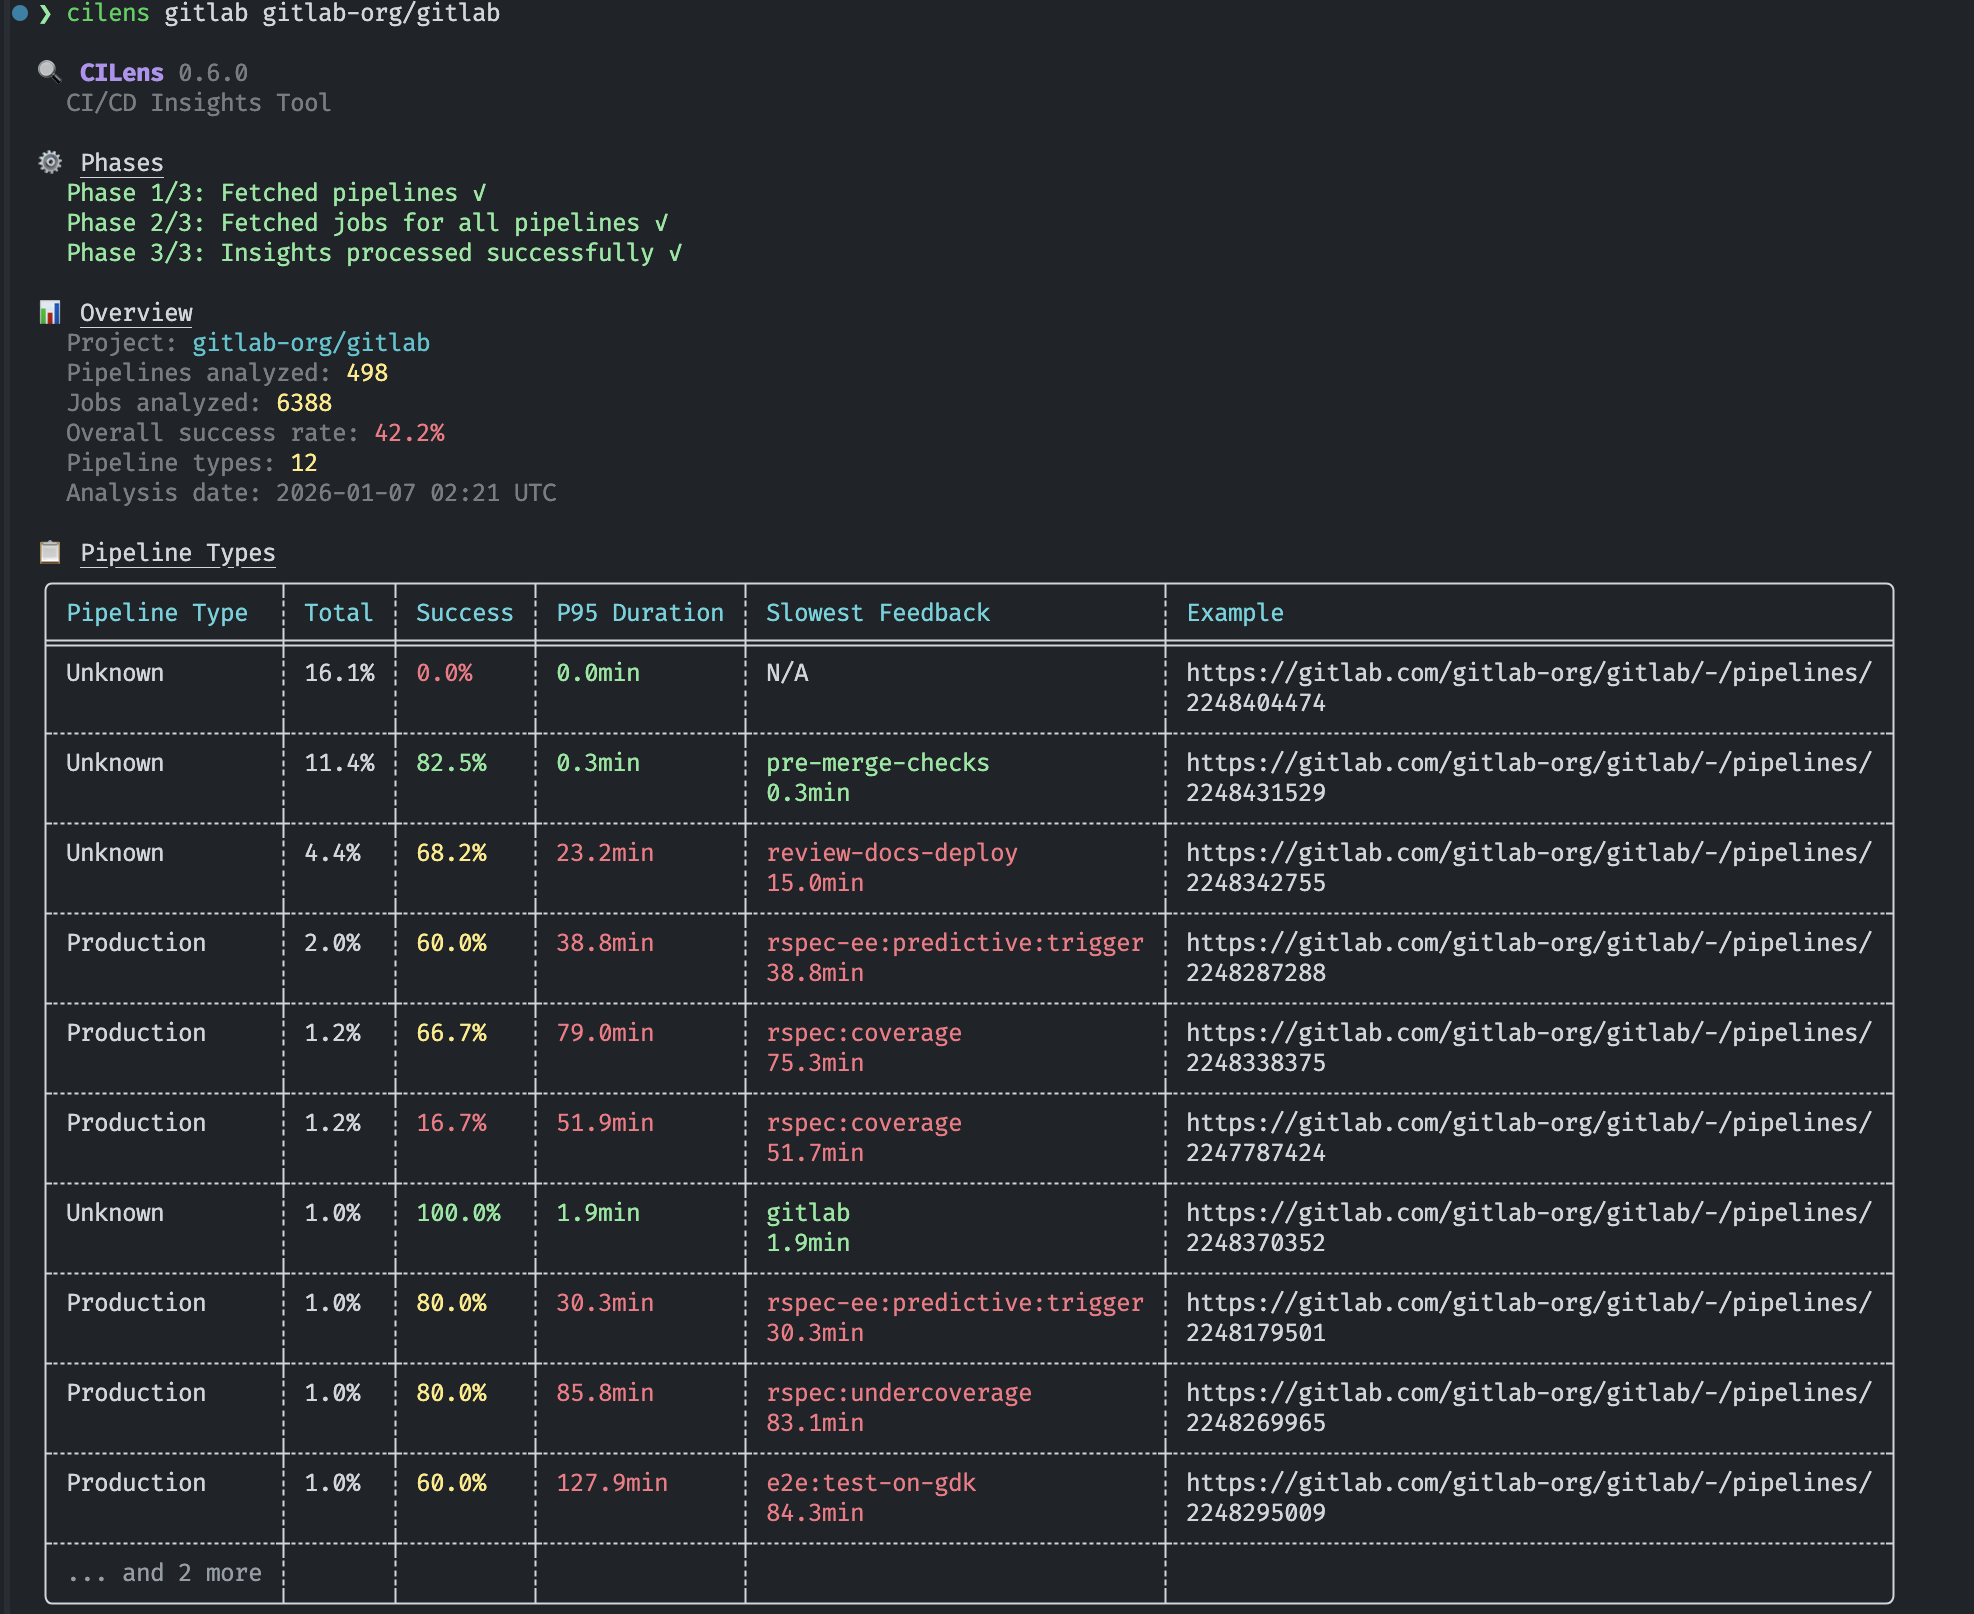
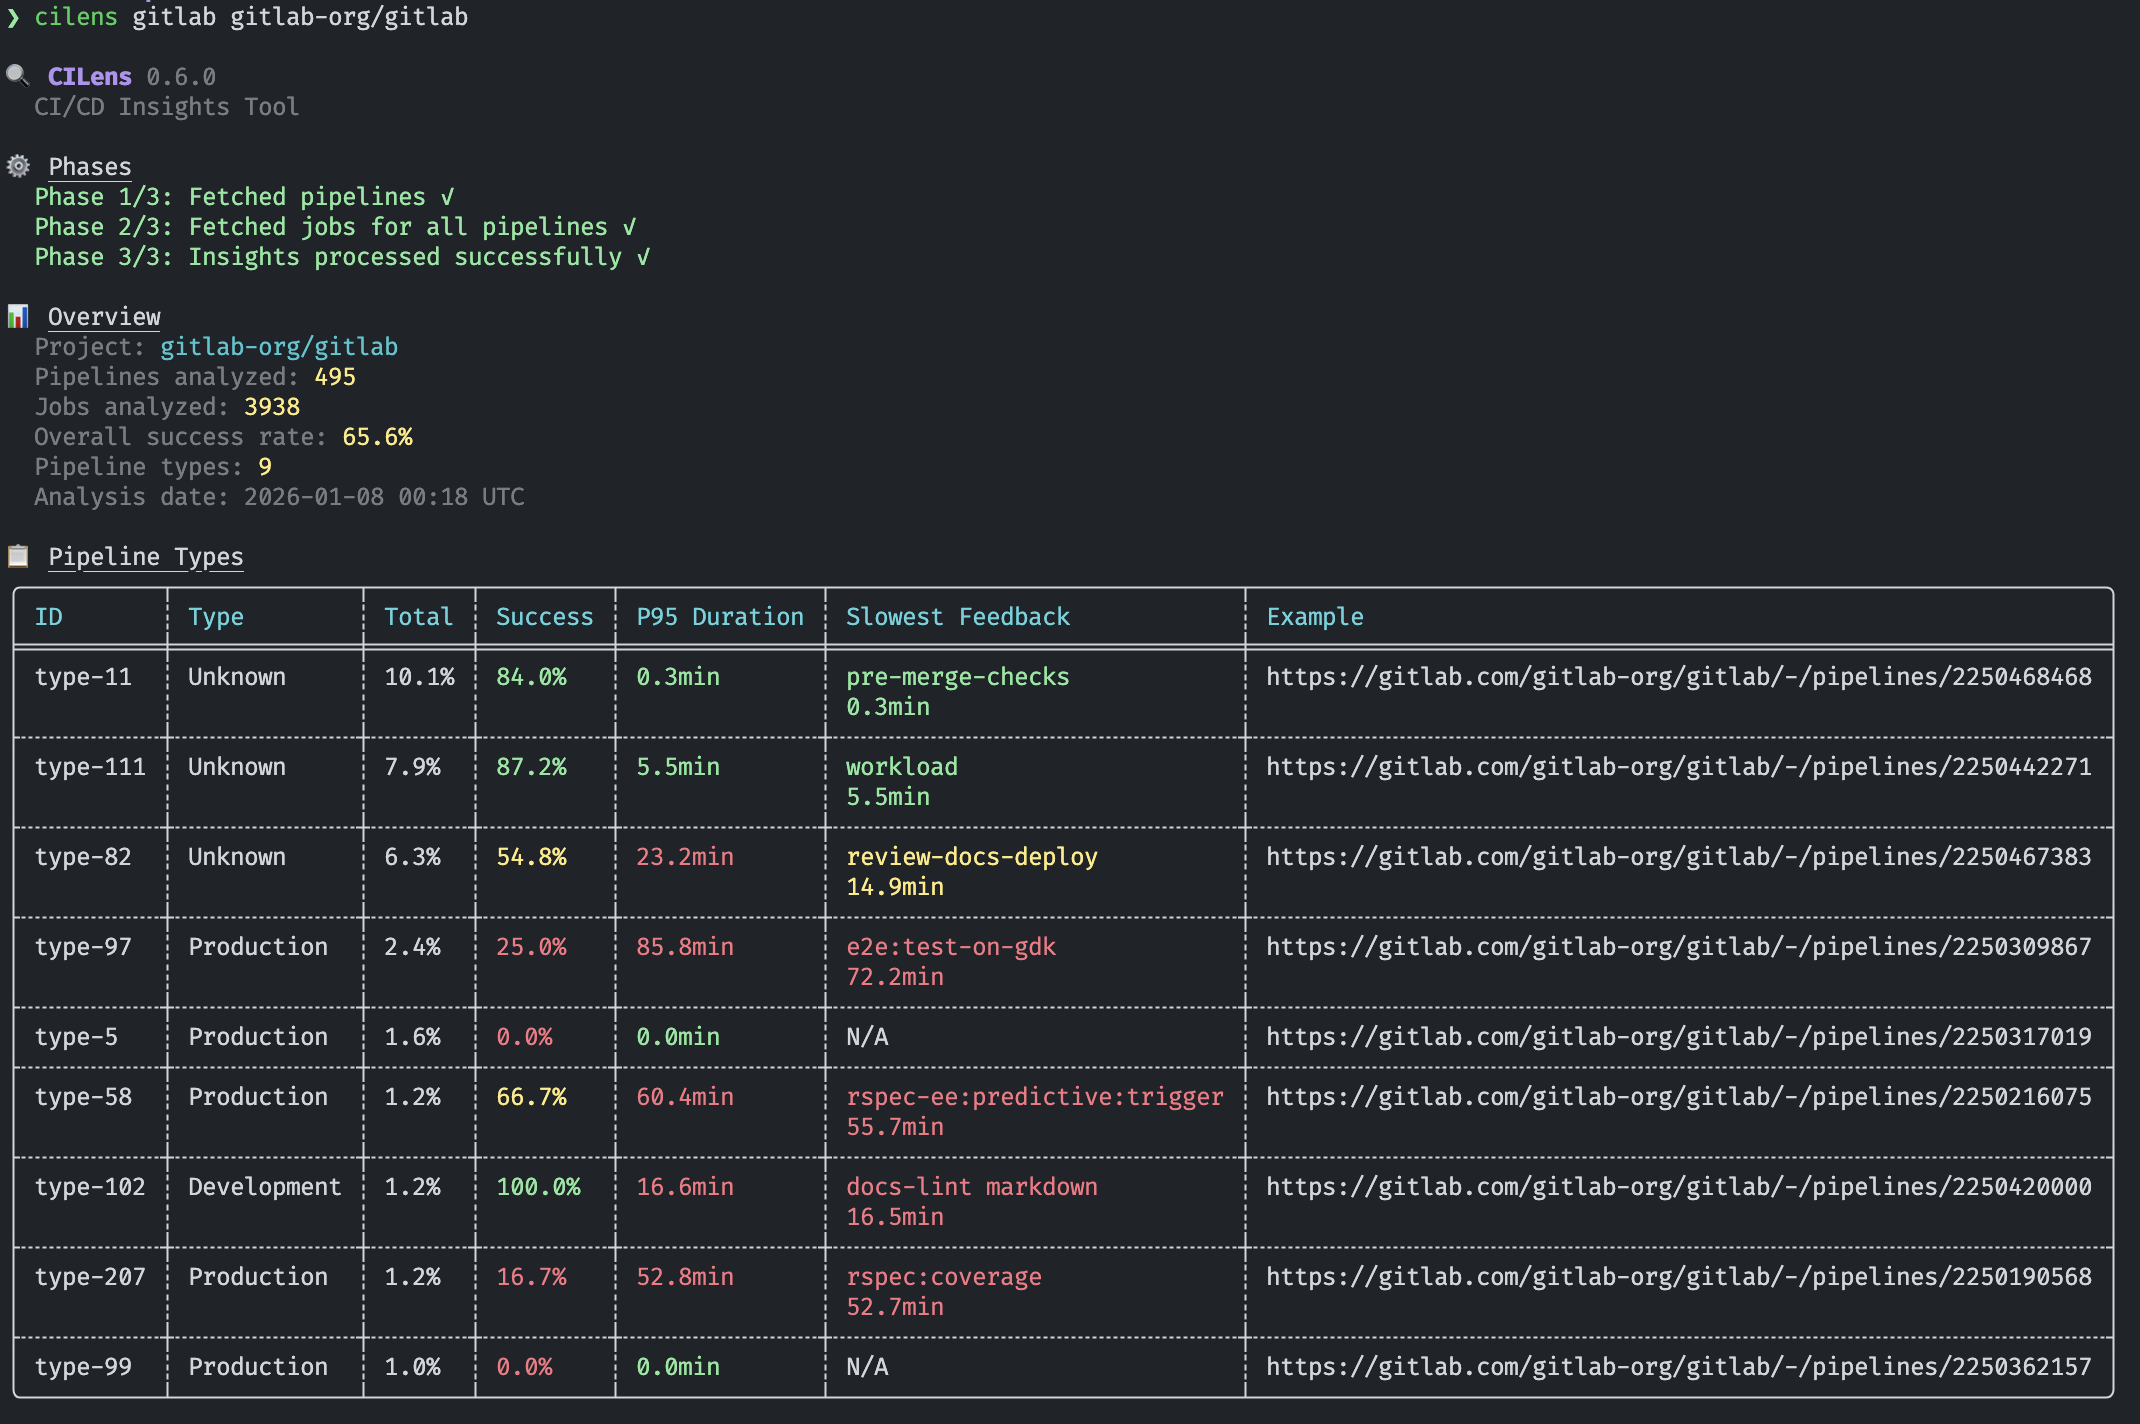
feat(core): add pipeline type IDs for job traceability
Add unique identifiers to pipeline types and associate each job with
its pipeline type ID. This enables tracking which pipeline type a job
belongs to when the same job appears across multiple pipeline types
with different metrics.

Changes:
- Add `id` field to PipelineType (format: "type-{index}")
- Add `pipeline_type_id` field to JobMetrics
- Display pipeline type ID in Pipeline Types summary table
- Display pipeline type ID as last column in all job tables
  (Top 10 Slowest, Top 10 Failing, Top 10 Flaky)

All metrics remain contextual (calculated per-pipeline-type), with
IDs providing traceability for understanding why the same job may
show different metrics in different contexts.

Changed region(s): [[0.0, 0.0, 0.9889, 1.0]]

diff --git a/src/output/summary.rs b/src/output/summary.rs
@@ -134,7 +134,8 @@ fn render_summary(insights: &CIInsights) -> String {
 
     let mut types_table = create_table();
     types_table.set_header(create_cyan_header(&[
-        "Pipeline Type",
+        "ID",
+        "Type",
         "Total",
         "Success",
         "P95 Duration",
@@ -179,6 +180,7 @@ fn render_summary(insights: &CIInsights) -> String {
             .map_or("N/A", |url| url.as_str());
 
         types_table.add_row(vec![
+            Cell::new(&pt.id),
             Cell::new(&pt.label),
             Cell::new(format!("{:.1}%", pt.metrics.percentage)),
             success_cell,
@@ -189,7 +191,7 @@ fn render_summary(insights: &CIInsights) -> String {
     }
 
     if insights.pipeline_types.len() > 10 {
-        let empty_cells = vec![Cell::new(""); 5];
+        let empty_cells = vec![Cell::new(""); 6];
         let mut row = vec![Cell::new(format!(
             "... and {} more",
             insights.pipeline_types.len() - 10
@@ -238,6 +240,7 @@ fn render_summary(insights: &CIInsights) -> String {
         "Fail",
         "Flaky",
         "Critical Path",
+        "Pipeline Type ID",
     ]));
 
     for (idx, job) in sorted_by_time.iter().take(10).enumerate() {
@@ -248,6 +251,7 @@ fn render_summary(insights: &CIInsights) -> String {
             color_coded_failure_cell(job.failure_rate),
             color_coded_flakiness_cell(job.flakiness_rate),
             Cell::new(format_critical_path(job)),
+            Cell::new(&job.pipeline_type_id),
         ]);
     }
 
@@ -268,6 +272,7 @@ fn render_summary(insights: &CIInsights) -> String {
         "Job Name",
         "Fail",
         "P95 Feedback",
+        "Pipeline Type ID",
     ]));
 
     for (idx, job) in sorted_by_failure.iter().take(10).enumerate() {
@@ -276,6 +281,7 @@ fn render_summary(insights: &CIInsights) -> String {
             Cell::new(&job.name),
             color_coded_failure_cell(job.failure_rate),
             color_coded_duration_cell(job.time_to_feedback_p95),
+            Cell::new(&job.pipeline_type_id),
         ]);
     }
 
@@ -296,6 +302,7 @@ fn render_summary(insights: &CIInsights) -> String {
         "Job Name",
         "Flaky",
         "P95 Feedback",
+        "Pipeline Type ID",
     ]));
 
     for (idx, job) in sorted_by_flakiness.iter().take(10).enumerate() {
@@ -304,6 +311,7 @@ fn render_summary(insights: &CIInsights) -> String {
             Cell::new(&job.name),
             color_coded_flakiness_cell(job.flakiness_rate),
             color_coded_duration_cell(job.time_to_feedback_p95),
+            Cell::new(&job.pipeline_type_id),
         ]);
     }
 
@@ -343,6 +351,7 @@ mod tests {
     ) -> JobMetrics {
         JobMetrics {
             name: name.to_string(),
+            pipeline_type_id: "test-type".to_string(),
             duration_p50: time_to_feedback_p95 * 0.3,
             duration_p95: time_to_feedback_p95 * 0.6,
             duration_p99: time_to_feedback_p95 * 0.8,
@@ -367,6 +376,7 @@ mod tests {
         example_url: &str,
     ) -> PipelineType {
         PipelineType {
+            id: "test-type".to_string(),
             label: label.to_string(),
             stages: vec!["test".to_string()],
             ref_patterns: vec!["main".to_string()],

diff --git a/src/providers/gitlab/pipeline_metrics.rs b/src/providers/gitlab/pipeline_metrics.rs
@@ -61,6 +61,7 @@ fn calculate_percentiles(values: &[f64]) -> (f64, f64, f64) {
 /// time-to-feedback percentiles, and detailed per-job metrics with clickable URLs
 /// to failed pipelines and flaky job runs.
 pub fn calculate_type_metrics(
+    pipeline_type_id: &str,
     pipelines: &[&GitLabPipeline],
     percentage: f64,
     base_url: &str,
@@ -79,8 +80,13 @@ pub fn calculate_type_metrics(
     let durations: Vec<f64> = successful.iter().map(|p| p.duration as f64).collect();
     let (duration_p50, duration_p95, duration_p99) = calculate_percentiles(&durations);
 
-    let (jobs, time_to_feedback_percentiles) =
-        aggregate_job_metrics(&successful, pipelines, base_url, project_path);
+    let (jobs, time_to_feedback_percentiles) = aggregate_job_metrics(
+        pipeline_type_id,
+        &successful,
+        pipelines,
+        base_url,
+        project_path,
+    );
 
     TypeMetrics {
         percentage,
@@ -119,6 +125,7 @@ fn calculate_success_rate(successful: usize, total: usize) -> f64 {
 
 #[allow(clippy::cast_precision_loss)]
 fn aggregate_job_metrics(
+    pipeline_type_id: &str,
     successful_pipelines: &[&GitLabPipeline],
     all_pipelines: &[&GitLabPipeline],
     base_url: &str,
@@ -174,7 +181,15 @@ fn aggregate_job_metrics(
 
     let mut jobs: Vec<JobMetrics> = job_data
         .into_iter()
-        .map(|(name, data)| build_job_metrics(&name, &data, &all_percentiles, &reliability_data))
+        .map(|(name, data)| {
+            build_job_metrics(
+                pipeline_type_id,
+                &name,
+                &data,
+                &all_percentiles,
+                &reliability_data,
+            )
+        })
         .collect();
 
     jobs.sort_by(|a, b| cmp_f64(b.time_to_feedback_p95, a.time_to_feedback_p95));
@@ -190,6 +205,7 @@ struct JobData {
 }
 
 fn build_job_metrics(
+    pipeline_type_id: &str,
     name: &str,
     data: &JobData,
     all_percentiles: &HashMap<String, (f64, f64, f64)>,
@@ -227,6 +243,7 @@ fn build_job_metrics(
 
     JobMetrics {
         name: name.to_string(),
+        pipeline_type_id: pipeline_type_id.to_string(),
         duration_p50,
         duration_p95,
         duration_p99,

diff --git a/src/providers/gitlab/pipeline_types.rs b/src/providers/gitlab/pipeline_types.rs
@@ -58,8 +58,10 @@ pub fn group_pipeline_types(
 
     let mut pipeline_types: Vec<PipelineType> = clusters
         .into_iter()
-        .map(|(job_names, cluster_pipelines)| {
+        .enumerate()
+        .map(|(index, (job_names, cluster_pipelines))| {
             create_pipeline_type(
+                index,
                 &job_names,
                 &cluster_pipelines,
                 total_pipelines,
@@ -75,6 +77,7 @@ pub fn group_pipeline_types(
 }
 
 fn create_pipeline_type(
+    index: usize,
     job_names: &[String],
     pipelines: &[&GitLabPipeline],
     total_pipelines: usize,
@@ -85,9 +88,13 @@ fn create_pipeline_type(
     #[allow(clippy::cast_precision_loss)]
     let percentage = (count as f64 / total_pipelines.max(1) as f64) * 100.0;
 
+    // Generate deterministic ID based on job signature
+    let id = format!("type-{index}");
+
     let label = generate_label(job_names);
     let (stages, ref_patterns, sources) = extract_characteristics(pipelines);
     let metrics = super::pipeline_metrics::calculate_type_metrics(
+        &id,
         pipelines,
         percentage,
         base_url,
@@ -95,6 +102,7 @@ fn create_pipeline_type(
     );
 
     PipelineType {
+        id,
         label,
         stages,
         ref_patterns,

diff --git a/src/insights.rs b/src/insights.rs
@@ -52,6 +52,8 @@ pub struct JobCountWithLinks {
 pub struct JobMetrics {
     /// Job name
     pub name: String,
+    /// Pipeline type ID this job belongs to
+    pub pipeline_type_id: String,
     /// Median job execution duration (seconds)
     pub duration_p50: f64,
     /// 95th percentile job duration (seconds) - useful for SLA planning
@@ -81,6 +83,8 @@ pub struct JobMetrics {
 /// A group of pipelines with identical job signatures.
 #[derive(Debug, Clone, Serialize, Deserialize)]
 pub struct PipelineType {
+    /// Unique identifier for this pipeline type
+    pub id: String,
     /// Human-readable label (e.g., "Production Pipeline", "Development Pipeline")
     pub label: String,
     /// Unique CI stages found in this pipeline type

diff --git a/src/providers/gitlab/job_metrics.rs b/src/providers/gitlab/job_metrics.rs
@@ -61,6 +61,7 @@ pub fn calculate_job_metrics(pipeline: &GitLabPipeline) -> Vec<JobMetrics> {
 
             JobMetrics {
                 name: name.to_string(),
+                pipeline_type_id: String::new(), // Temporary, will be set by aggregate_job_metrics
                 duration_p50: duration,
                 duration_p95: duration,
                 duration_p99: duration,
